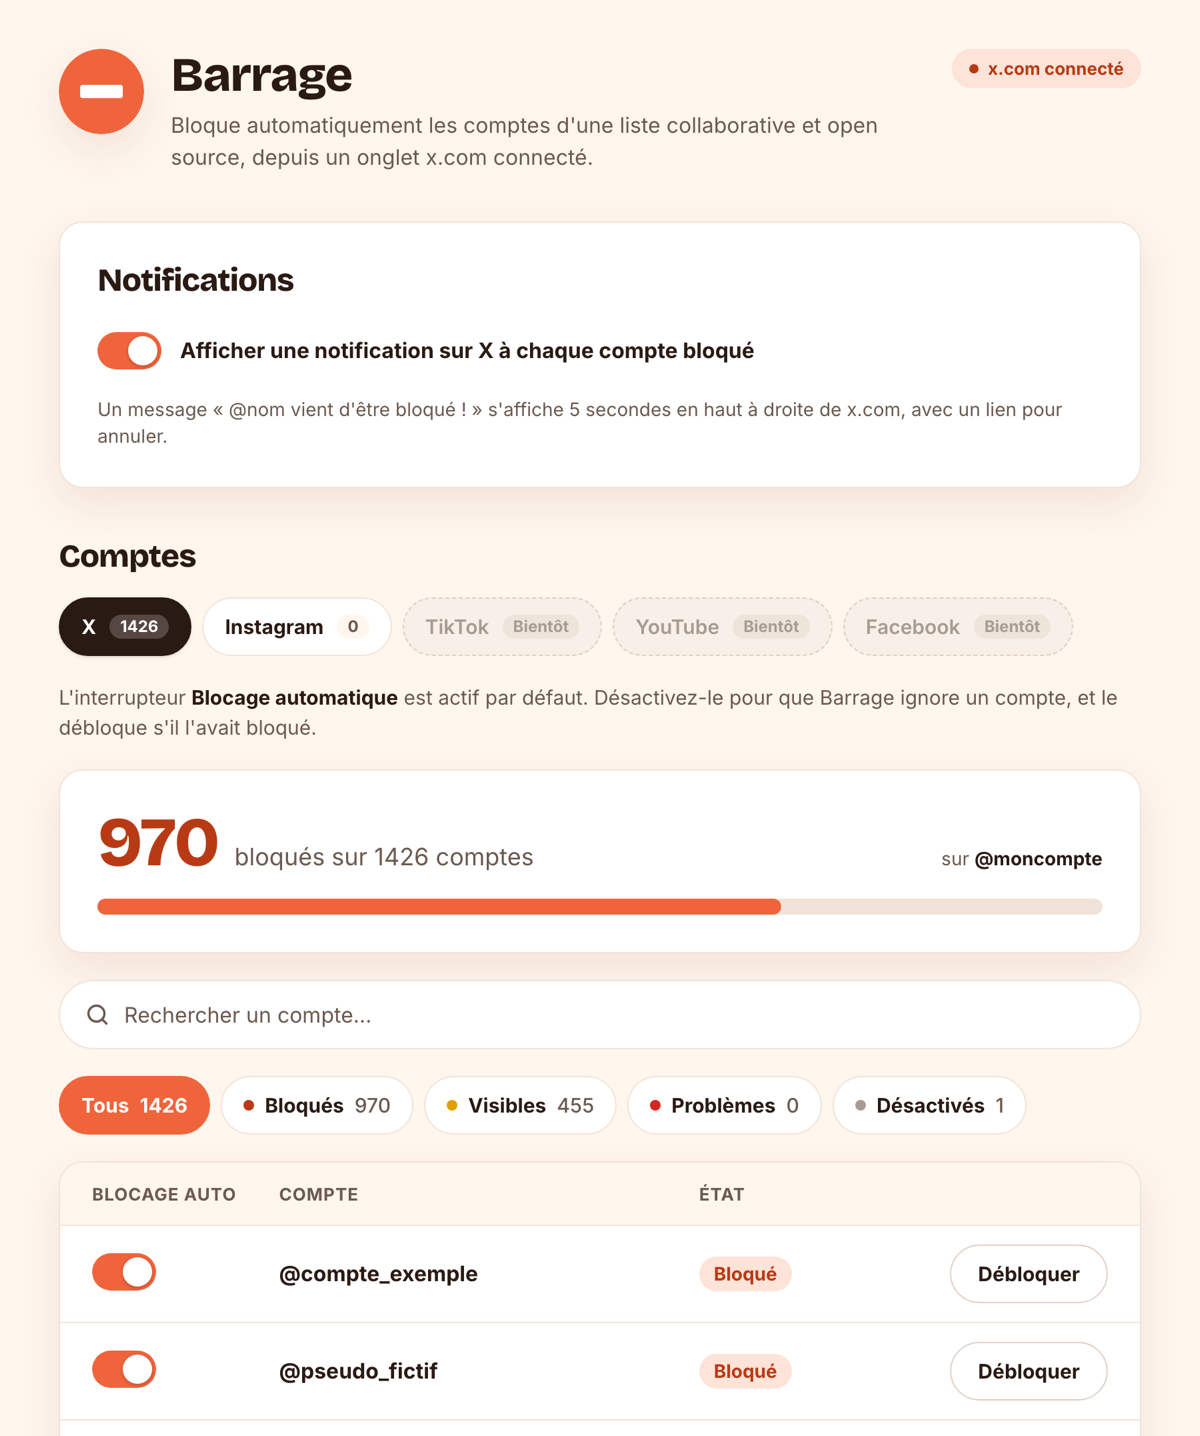
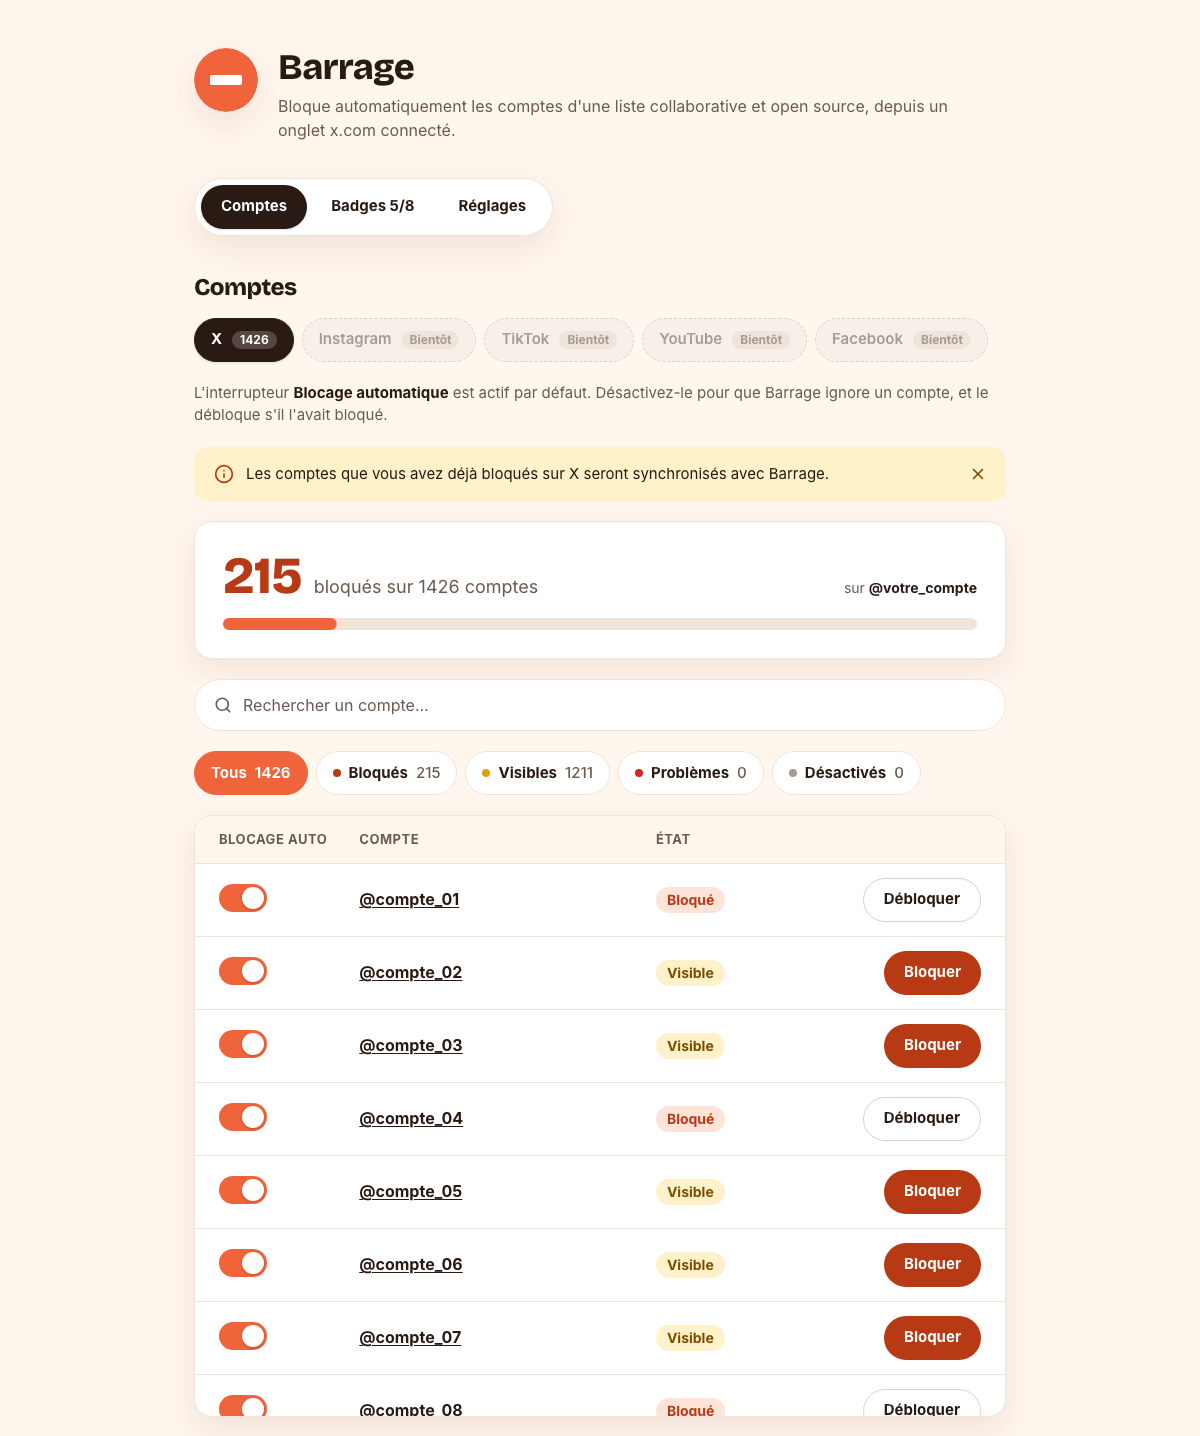
docs(landing): new hero screenshot of the 1.4.0 options page

diff --git a/docs/index.html b/docs/index.html
@@ -82,7 +82,7 @@
         </div>
         <div class="hero__visual">
           <div class="screen">
-            <img src="assets/hero.png" width="1200" height="1436" alt="Page d'options de Barrage : notifications, réseaux et liste des comptes à bloquer.">
+            <img src="assets/hero.png" width="1200" height="1436" alt="Page d'options de Barrage : onglets Comptes, Badges et Réglages, progression et liste des comptes à bloquer.">
           </div>
         </div>
       </div>
